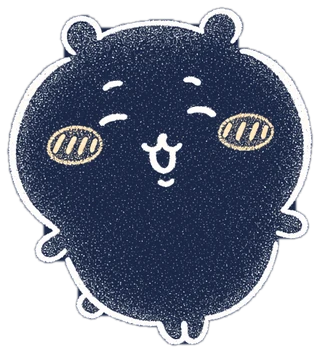
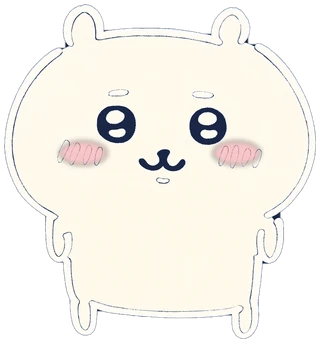
Redraw Chiikawa white, larger; quieter dot paper for Listening
Chiikawa is redrawn from a new reference as a white creature with dark
eyes and mouth (the last was a navy body in a white outline, the reverse
of the character, and didn't read as it), with soft pink blush, and drawn
a third larger. On a phone it now sits in the pine's branches, where it's
clear of both the name and the edge.

The Listening sheet takes the notes' fainter dot grid, so its words read
as cleanly as a note's.

diff --git a/styles/site.css b/styles/site.css
@@ -119,10 +119,10 @@ a:hover .pic-title, a:focus-visible .pic-title { background-size: 100% 0.5em; }
   mask: var(--torn) 0 0 / 600px 40px repeat-x, linear-gradient(#000 0 0) 0 39px / 100% calc(100% - 39px) no-repeat; }
 .leaf::before { content: ""; position: absolute; z-index: 1; left: 0; right: 0; top: 0; height: 40px; background: var(--tear, none) 0 0 / 600px 40px repeat-x; pointer-events: none; }
 .leaf-slate { --paper: #1c232c; --tile: url(/art/paper/slate.webp); --ink-2: #bfc8d2; --torn: url(/art/paper/edge-slate.webp); --tear: url(/art/paper/tear-slate.webp); }
-.leaf-dusk { --paper: #1d2136; --tile: url(/art/paper/dusk.webp); --ink-2: #c4c8de; --torn: url(/art/paper/edge-dusk.webp); }
+.leaf-dusk { --paper: #1d2136; --tile: url(/art/paper/dusk-note.webp); --ink-2: #c4c8de; --torn: url(/art/paper/edge-dusk.webp); }
 .leaf-pine { --paper: #182521; --tile: url(/art/paper/pine.webp); --ink-2: #bccbc4; --torn: url(/art/paper/edge-pine.webp); }
 .leaf-ink { --paper: #11141e; --tile: url(/art/paper/ink.webp); --ink-2: #b9bfd0; --torn: url(/art/paper/edge-ink.webp); --tear: url(/art/paper/tear-ink.webp); }
-/* (on the dot grid, a halo of paper round the letters so no dot cuts through them) */
+/* (the dot grid is pressed faint, and the letters carry a halo of paper, so no dot reads as part of a word) */
 .leaf-dusk .shelf, .leaf-dusk .note-page { text-shadow: 0 0 2px var(--paper), 0 0 4px var(--paper); }
 
 .shelf { position: relative; z-index: 1; max-width: 1240px; margin: 0 auto; padding: clamp(80px, 9vw, 140px) var(--gutter) clamp(100px, 11vw, 170px); }
@@ -197,7 +197,7 @@ a:hover .pic-title, a:focus-visible .pic-title { background-size: 100% 0.5em; }
 /* a note is written on the indigo dot grid in pale ink: its pens and highlighters (styles/page.css, objects.css)
    take the night's colours. The figures taped into it (orbitals, algorithms, sketches, code, sticky notes, the
    lecture strip) stay sheets of white drawing paper, so inside them the pens go back to dark ink */
-.note-leaf { --tile: url(/art/paper/dusk-note.webp); padding-bottom: clamp(90px, 10vw, 150px);
+.note-leaf { padding-bottom: clamp(90px, 10vw, 150px);
   --mono-ink: var(--ink); --pencil: #bdb7ac; --faded-ink: #a9a398; --blue-pen: #a9c0f0; --red-pen: #f29a82; --shu: #f29a82;
   --highlight: rgba(240, 180, 106, 0.3); --highlight-pink: rgba(232, 140, 160, 0.3); --highlight-green: rgba(140, 200, 140, 0.26);
   --rule: rgba(220, 212, 196, 0.18); --dot: rgba(200, 210, 235, 0.2); }
@@ -264,11 +264,11 @@ a:hover .pic-title, a:focus-visible .pic-title { background-size: 100% 0.5em; }
   background: linear-gradient(90deg, rgba(244, 239, 228, 0), rgba(244, 239, 228, 0.95)); transform-origin: 100% 50%;
   animation: shoot 13s ease-in 4s infinite; }
 @keyframes shoot { 0% { opacity: 0; transform: translate(0, 0) rotate(16deg) scaleX(0.2); } 2% { opacity: 1; } 7% { opacity: 0; transform: translate(380px, 110px) rotate(16deg) scaleX(1); } 100% { opacity: 0; } }
-/* the little one on the ledge (its feet on the rock: placed by its foot, a few % of the drawing's height tall); it
+/* Chiikawa on the ledge (its feet on the rock: placed by its foot, 7.5% of the drawing's height tall); it
    comes out once the name is written, waves now and then, and hops when found */
-.critter { --ch: calc(var(--dh) * 0.056); width: calc(var(--ch) * 0.906); height: var(--ch); transform: translate(-50%, -94%);
+.critter { --ch: calc(var(--dh) * 0.075); width: calc(var(--ch) * 0.933); height: var(--ch); transform: translate(-50%, -94%);
   pointer-events: auto; cursor: default; animation: critter-in 1s ease 1.8s both; }
-@media (max-width: 700px) { .critter { --ch: calc(var(--dh) * 0.072); } }
+@media (max-width: 700px) { .critter { --ch: calc(var(--dh) * 0.095); } }
 .critter img { display: block; width: 100%; height: 100%; transform-origin: 50% 100%; animation: critter-wave 7s ease-in-out 3s infinite; }
 .critter:hover img { animation: critter-hop 0.6s cubic-bezier(0.3, 0.7, 0.4, 1); }
 @keyframes critter-in { from { opacity: 0; } }

diff --git a/components/site/Sky.tsx b/components/site/Sky.tsx
@@ -38,8 +38,8 @@ export default function Sky() {
       ))}
       <span className="shooting" />
       {/* Chiikawa, on the ledge by the pine, waving at whoever finds it */}
-      <span className="spot critter" style={at({ w: [0.876, 0.583], t: [0.785, 0.692] })}>
-        <img src="/art/hero/critter.webp" width={320} height={353} alt="" decoding="async" />
+      <span className="spot critter" style={at({ w: [0.876, 0.583], t: [0.66, 0.583] })}>
+        <img src="/art/hero/critter.webp" width={320} height={343} alt="" decoding="async" />
       </span>
       {petals.map((p, i) => (
         <span key={`p${i}`} className="spot drift" style={{ ...at(p.at), '--dx': `${p.dx}px`, '--s': `${p.s}px`, '--turn': `${p.turn}deg`, '--d': `${p.d}s`, '--p': `${p.p}s` } as React.CSSProperties}>

diff --git a/tools/process-art.py b/tools/process-art.py
@@ -72,12 +72,14 @@ def night():
     if os.path.exists(p): save(fit(Image.open(p).convert('RGB'), 900), 'cards/record.webp', 86)
 
 
-def critter(name='chiikawa-0', fill=(27, 39, 70)):
-    """the little one on the cliff: drawn as an outline on black, so its body is filled solid with the night's navy
-    (the inside of its outline: the outline grown, its outside flooded from a corner, the rest is body), or the rocks
-    behind it would show through"""
+def critter(name='chiikawa2-1', fill=(27, 39, 70), floor=0.2, blush=((0.255, 0.745), 0.445)):
+    """Chiikawa on the cliff: a white gel-pen body with dark eyes and mouth, drawn on dark paper. The dark features
+    come out transparent, so underneath it is filled solid with the night's navy (the inside of its outline: the outline
+    grown, its outside flooded from a corner, the rest is body): the eyes read as dark, and no rock shows through.
+    (floor: this drawing's paper is a dark grey rather than black, so more of the dark is cut away; blush: where its cheeks
+    are, as fractions of it)"""
     from PIL import ImageDraw
-    ink = unblack(raw(name), floor=0.07, gain=1.7)
+    ink = unblack(raw(name), floor=floor, gain=1.7)
     a = ink.split()[3]
     solid = a.point(lambda v: 255 if v > 40 else 0).filter(ImageFilter.MaxFilter(15))
     ImageDraw.floodfill(solid, (0, 0), 128)
@@ -85,6 +87,17 @@ def critter(name='chiikawa-0', fill=(27, 39, 70)):
     out = Image.new('RGBA', ink.size, fill + (0,)); out.putalpha(body)
     out.alpha_composite(ink)
     box = out.getbbox()
+    # its blush, in soft pink gel pen under the hatching (the drawing's own came out too faint to read)
+    if blush:
+        w, h = box[2] - box[0], box[3] - box[1]
+        cheeks = Image.new('RGBA', out.size, (0, 0, 0, 0))
+        d = ImageDraw.Draw(cheeks)
+        for cx in blush[0]:
+            x, y = box[0] + cx * w, box[1] + blush[1] * h
+            d.ellipse((x - 0.075 * w, y - 0.035 * h, x + 0.075 * w, y + 0.035 * h), fill=(242, 160, 172, 150))
+        cheeks = cheeks.filter(ImageFilter.GaussianBlur(w * 0.008))
+        cheeks.putalpha(Image.fromarray(np.minimum(np.asarray(cheeks.split()[3]), np.asarray(body))))
+        out.alpha_composite(cheeks)
     pad = 8
     out = out.crop((box[0] - pad, box[1] - pad, box[2] + pad, box[3] + pad))
     save(fit(out, 320), 'hero/critter.webp', 90)
